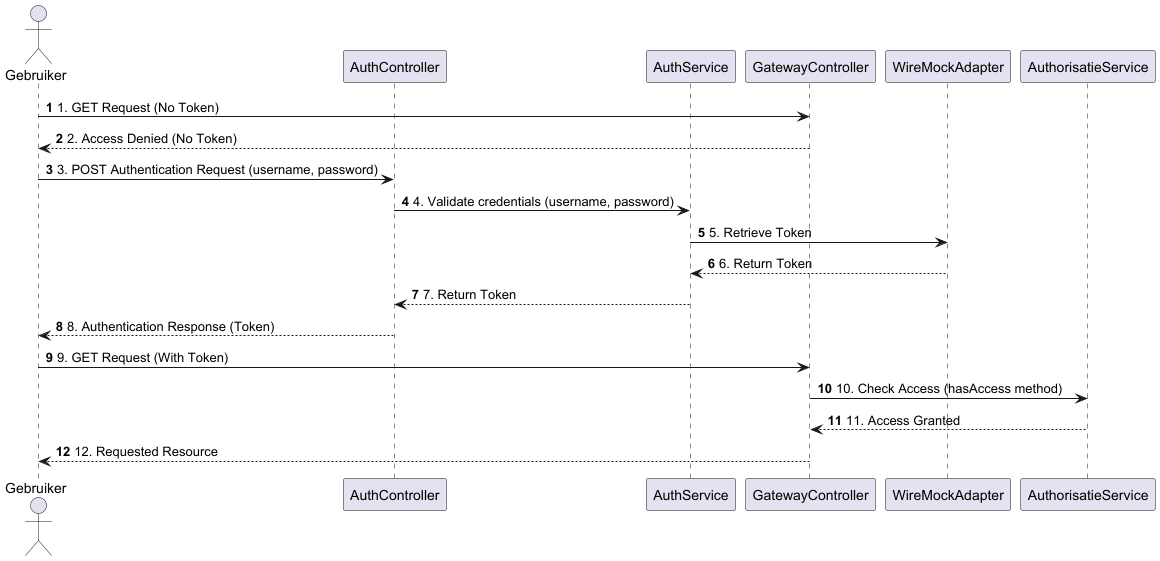
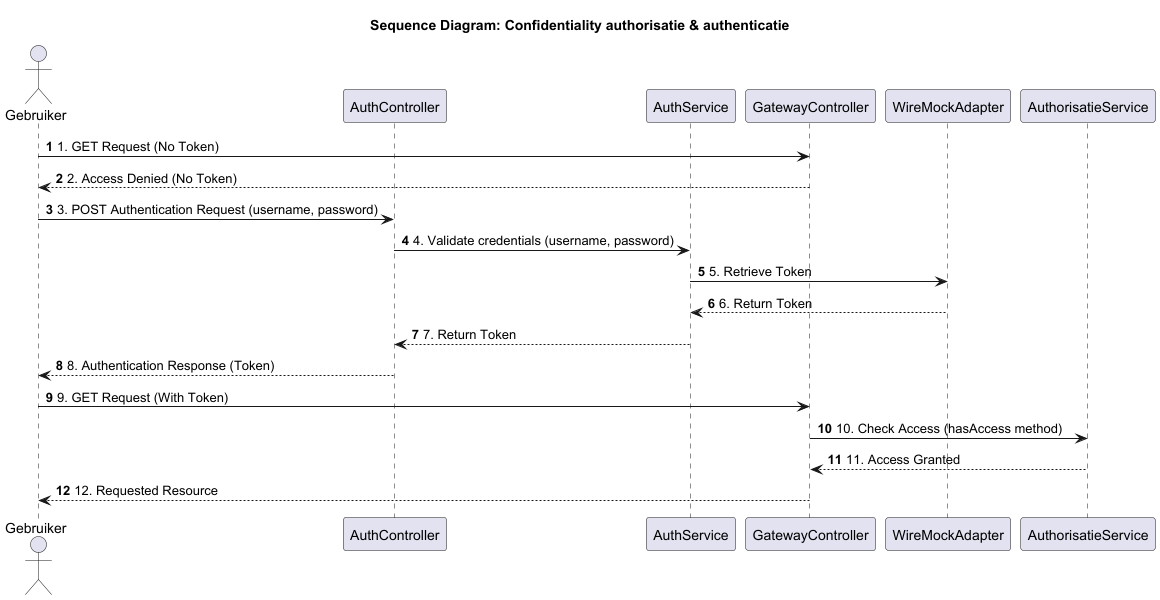
Reamdme software guidebook geupdate.

diff --git a/software-guidebook/README.md b/software-guidebook/README.md
@@ -191,6 +191,20 @@ De backend zorgt ervoor dat de connectie met de externe services op de juiste ma
 #### 7.2.2 Backend
 ![Backend container](../opdracht-diagrammen/3Component/Backend-components.png)
 
+#### 7.2.2.1 Component diagram voor confidentiality 
+**Hoe zorg je ervoor dat authenticatie en autorisatie consistent worden toegepast bij het communiceren met verschillende externe APIs?**
+
+![component diagram confidentiality](../opdracht-diagrammen/diagrammen-yousif/component-diagram/ComponentDiagram-Component_diagram_voor_de_backend_container_voor_de__Confidentiality__ontwerpvraag.png)
+
+#### 7.2.2.2 Happy path dynamic component diagram
+![dynamic component diagram](../opdracht-diagrammen/diagrammen-yousif/dynamic-diagram/Dynamic_diagram-Dynamic_diagram__Niet_ingelogde_gebruiker_stuurt_verzoek_naar_Gateway_Controller.png)
+
+Het idee is dat de gebruiker een rol heeft en dat deze rol wordt gecontroleerd door de gateway controller.
+
+#### 7.2.2.3 Unhappy path dynamic component diagram
+![unhappy dynamic component diagram](../opdracht-diagrammen/diagrammen-yousif/dynamic-diagram/Dynamic_diagram_unhappy_path-Dynamic_diagram__Gebruiker_heeft_niet_de_juiste_rol_voor_Gateway_Controller.png)
+
+Wat fout gaat is dat de gebruiker niet de juiste rol heeft voor de gateway controller en dus geen toegang heeft tot die informatie.
 ### 7.3. Design & Code
 
 > [!IMPORTANT]
